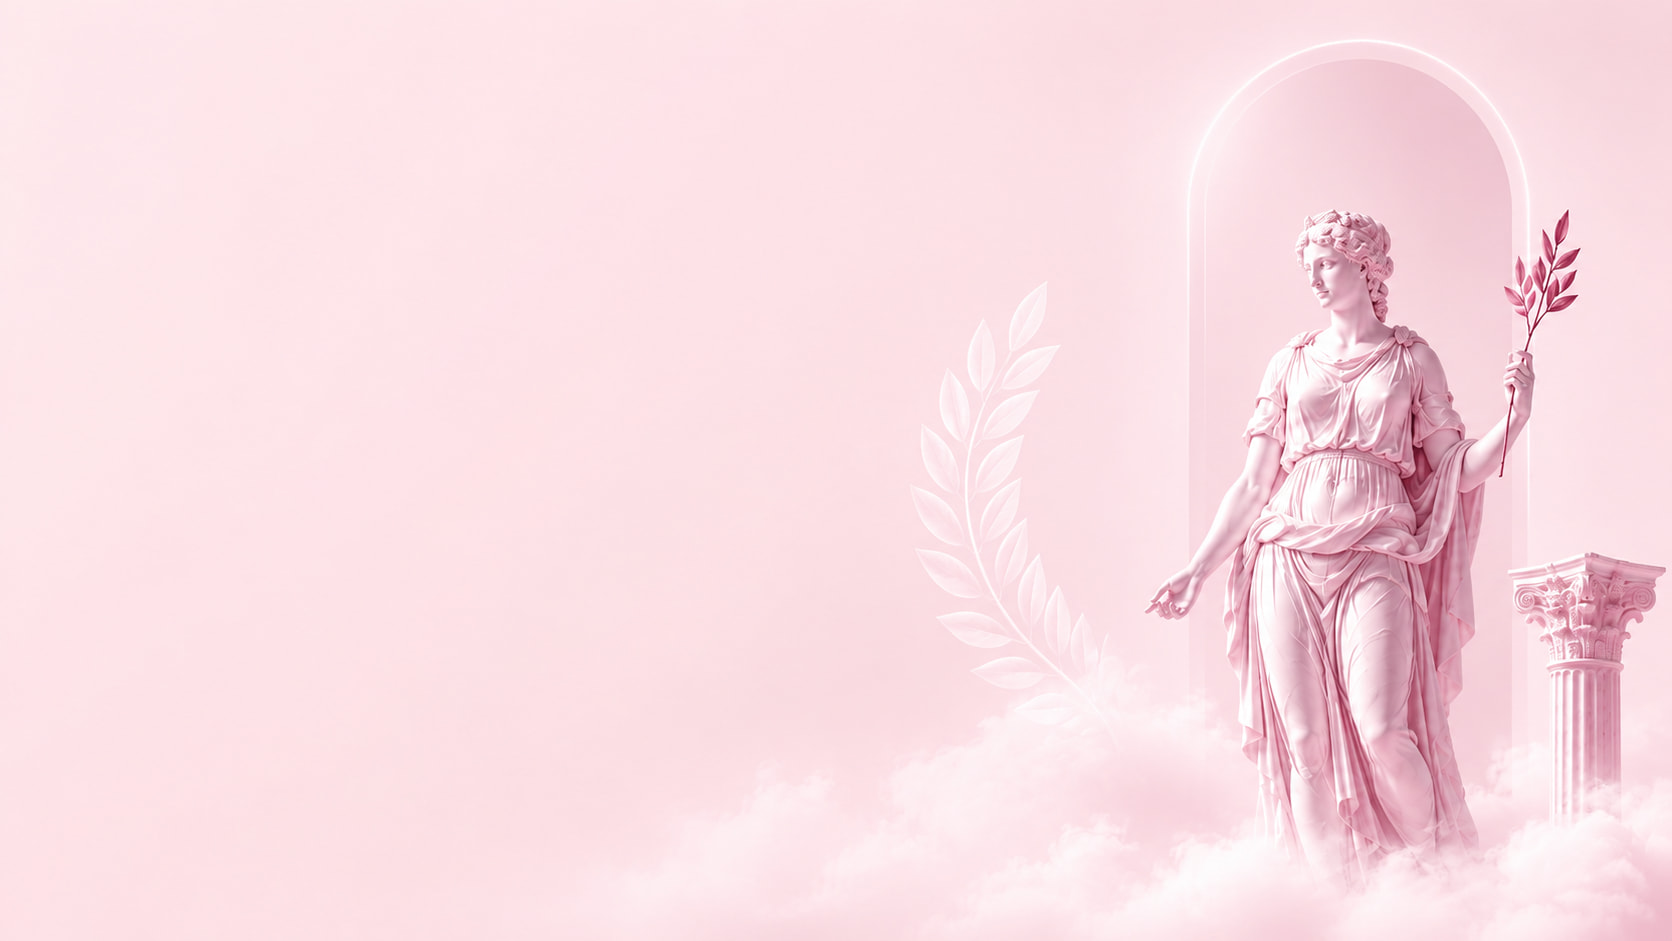
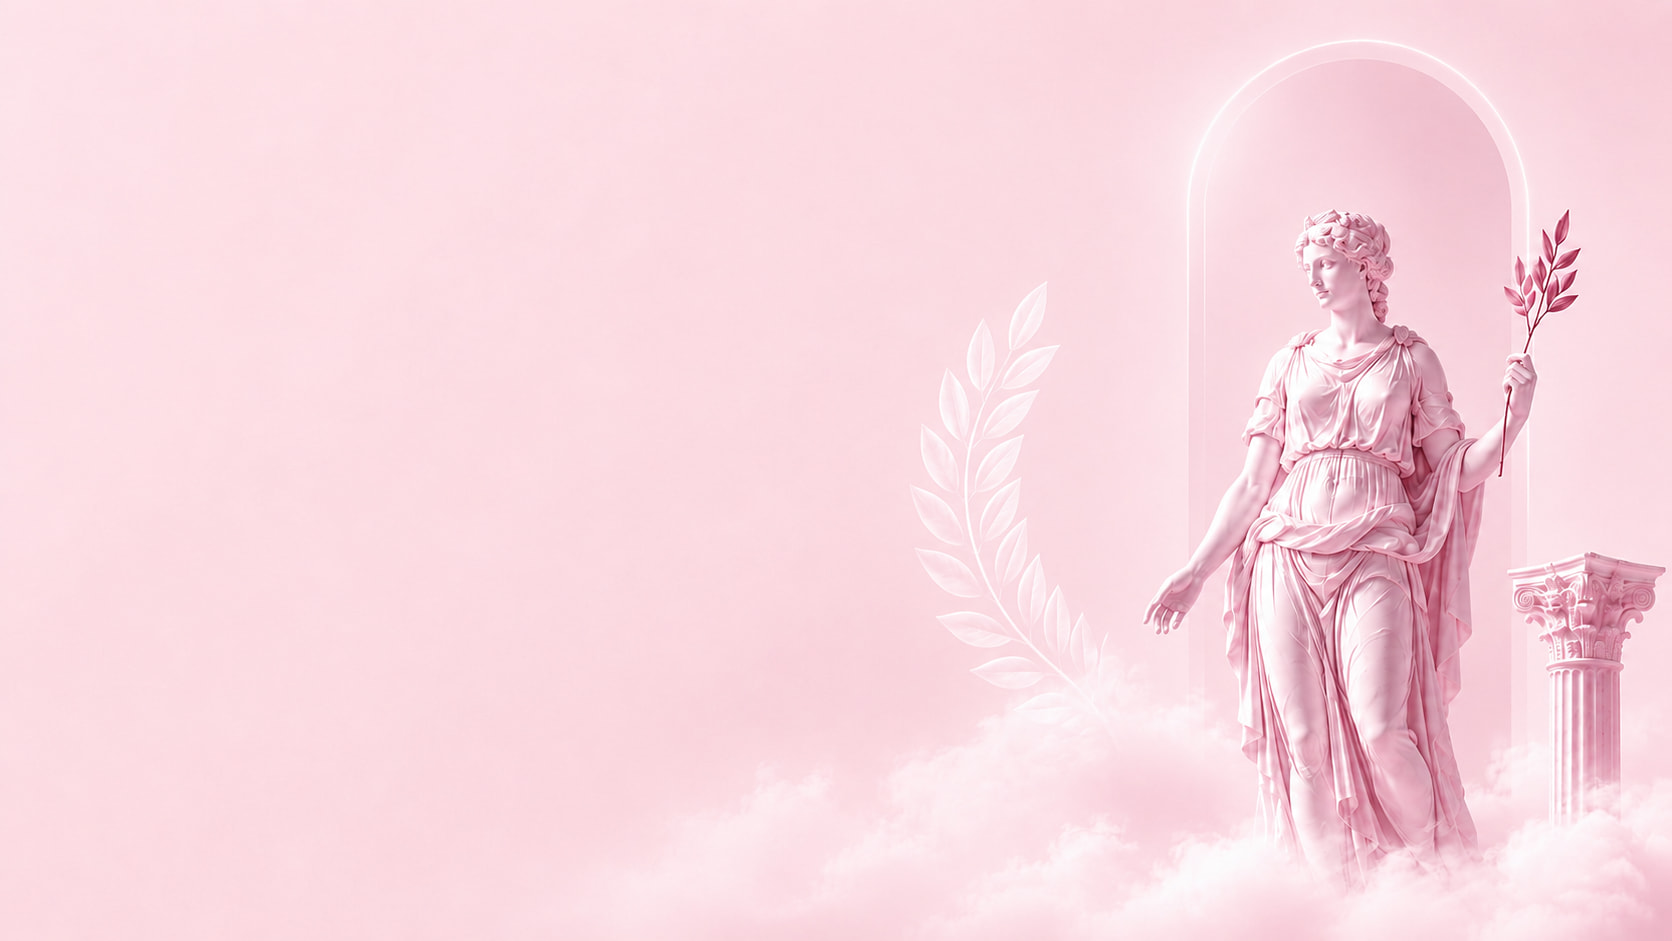
Site web

diff --git a/app/globals.css b/app/globals.css
@@ -3841,9 +3841,16 @@ body:has(.home-with-cinematic-footer) {
   overflow: hidden;
   /* Pas de min-height : la banniere fait la hauteur naturelle
      de l'image (ratio ~3:1, donc ~33% de la largeur viewport).
-     Pas de margin-bottom : colle au footer. */
-  margin-bottom: -1px;
+     marginBottom: -2px (au lieu de -1) pour fermer tout risque de bande
+     visible due aux arrondis pixel des aspect-ratio. */
+  margin-bottom: -2px;
   background-color: var(--cream);
+  /* Block display obligatoire pour eviter tout interlining */
+  display: block;
+}
+.reali-cta-banner + footer,
+.reali-cta-banner + .site-footer {
+  margin-top: 0 !important;
 }
 .reali-cta-banner-bg {
   position: absolute;
@@ -3935,14 +3942,12 @@ body:has(.home-with-cinematic-footer) {
   isolation: isolate;
   overflow: hidden;
   background: var(--cream);
-  /* Pas de min-height 90vh qui pousse le contenu trop bas : on laisse
-     le contenu definir la hauteur naturelle avec un padding controle. */
   min-height: 0;
 }
 .methode-hero-bg {
   position: absolute;
-  /* Image remonte : top 90px au lieu de 110px (calage juste sous le header). */
-  top: 90px;
+  /* Image collee juste sous le header (qui fait ~90-100px) */
+  top: 60px;
   left: 0; right: 0; bottom: 0;
   background-image: url('/method-fond.jpg');
   background-size: cover;
@@ -3953,14 +3958,14 @@ body:has(.home-with-cinematic-footer) {
   -webkit-mask-image: linear-gradient(
     to bottom,
     transparent 0%,
-    rgba(0,0,0,1) 40px,
+    rgba(0,0,0,1) 30px,
     rgba(0,0,0,1) calc(100% - 100px),
     transparent 100%
   );
           mask-image: linear-gradient(
     to bottom,
     transparent 0%,
-    rgba(0,0,0,1) 40px,
+    rgba(0,0,0,1) 30px,
     rgba(0,0,0,1) calc(100% - 100px),
     transparent 100%
   );
@@ -3968,11 +3973,11 @@ body:has(.home-with-cinematic-footer) {
 .methode-hero-inner {
   position: relative;
   z-index: 1;
-  /* Padding-top reduit : 120px -> 130px (header de 100px + 30px d'air).
-     Padding-bottom reduit aussi pour eviter le trou en bas du screen. */
+  /* Padding-top reduit au MAX : 130px -> 95px.
+     Le header fixe occupe ~90px, donc 95px = juste 5px d'air sous le header. */
   display: flex;
   align-items: flex-start;
-  padding: 130px 5vw 70px 5vw;
+  padding: 95px 5vw 50px 5vw;
 }
 .methode-hero-content {
   /* Texte cale a gauche : on prend 55% max et on s'aligne a gauche */
@@ -4276,96 +4281,58 @@ body:has(.home-with-cinematic-footer) {
 .bullet-pink { background: var(--pink); }
 .bullet-pink-deep { background: var(--pink-deep); }
 
-/* SECTION "Ce qu'on ne fera JAMAIS" */
-.methode-nevers {
-  background: linear-gradient(135deg, var(--night) 0%, var(--klein-deep) 100%);
-  color: #fff;
-  padding: 120px 0;
+/* ===========================================================
+   BANNIERE IMAGE — remplace l'ancienne section "Ce qu'on ne fera jamais"
+   Dimensions identiques (1920 x ~820px en Full HD).
+   Pas de texte HTML : tout le texte est integre dans l'image. */
+.methode-banner {
   position: relative;
+  isolation: isolate;
   overflow: hidden;
+  width: 100%;
+  /* Hauteur : meme proportion que l'ancienne .methode-nevers (~820px sur 1920),
+     soit ratio image native 1919x820 -> aspect-ratio 1919/820. */
+  aspect-ratio: 1919 / 820;
+  background-color: #0D0D1A;
 }
-.methode-nevers::before {
+.methode-banner-bg {
+  position: absolute;
+  inset: 0;
+  background-image: url('/methode-banner.jpg');
+  background-size: cover;
+  background-position: center;
+  background-repeat: no-repeat;
+  z-index: 0;
+}
+@media (max-width: 700px) {
+  .methode-banner { aspect-ratio: auto; min-height: 320px; }
+}
+
+/* CTA final — fond image "Tout commence par un échange" collé au footer */
+.methode-cta {
+  position: relative;
+  isolation: isolate;
+  overflow: hidden;
+  padding: 120px 0;
+  /* Colle au footer : aucun ecart visible */
+  margin-bottom: -1px;
+  background-color: var(--cream);
+}
+.methode-cta::before {
   content: '';
   position: absolute;
   inset: 0;
-  background:
-    radial-gradient(ellipse at 15% 20%, rgba(43, 108, 196, 0.18) 0%, transparent 50%),
-    radial-gradient(ellipse at 85% 80%, rgba(201, 38, 106, 0.14) 0%, transparent 50%);
-  pointer-events: none;
-}
-.methode-nevers .container { position: relative; z-index: 1; }
-.methode-nevers-head {
-  text-align: center;
-  margin-bottom: 64px;
-  max-width: 760px;
-  margin-left: auto;
-  margin-right: auto;
-}
-.methode-nevers-eyebrow {
-  color: rgba(255, 255, 255, 0.6) !important;
-}
-.methode-nevers-title {
-  font-family: var(--serif);
-  font-size: clamp(40px, 5vw, 64px);
-  line-height: 1.06;
-  letter-spacing: -0.022em;
-  font-weight: 400;
-  margin: 18px 0 0;
-  color: #fff;
-}
-.methode-nevers-grid {
-  display: grid;
-  grid-template-columns: repeat(2, 1fr);
-  gap: 20px;
-  max-width: 1100px;
-  margin: 0 auto;
-}
-@media (max-width: 800px) { .methode-nevers-grid { grid-template-columns: 1fr; } }
-.methode-never-card {
-  padding: 32px 30px;
-  background: rgba(255, 255, 255, 0.05);
-  border: 1px solid rgba(255, 255, 255, 0.10);
-  border-radius: 16px;
-  position: relative;
-  transition: border-color 0.3s var(--ease), transform 0.3s var(--ease);
-}
-.methode-never-card:hover {
-  border-color: rgba(201, 38, 106, 0.45);
-  transform: translateY(-4px);
-}
-.methode-never-num {
-  font-family: var(--serif);
-  font-style: italic;
-  font-size: 36px;
-  line-height: 1;
-  color: var(--pink);
-  margin-bottom: 14px;
-  opacity: 0.85;
-}
-.methode-never-title {
-  font-family: var(--serif);
-  font-size: 19px;
-  font-weight: 500;
-  margin: 0 0 12px;
-  letter-spacing: -0.008em;
-  color: #fff;
-}
-.methode-never-desc {
-  font-size: 14px;
-  line-height: 1.7;
-  color: rgba(255, 255, 255, 0.78);
-  margin: 0;
-}
-
-/* CTA final */
-.methode-cta {
-  background: var(--cream);
-  padding: 120px 0;
-  position: relative;
+  background-image: url('/methode-cta-bg.jpg');
+  background-size: cover;
+  background-position: center;
+  background-repeat: no-repeat;
+  z-index: -1;
 }
 .methode-cta-inner {
   text-align: center;
   max-width: 760px;
+  position: relative;
+  z-index: 1;
 }
 .methode-cta-eyebrow {
   display: inline-block;
@@ -4417,20 +4384,22 @@ body:has(.home-with-cinematic-footer) {
 }
 
 /* ===========================================================
-   TRANSITION HERO METHODE -> ETAPE 01
-   Le hero a un fond #EAE9EE et l'etape 1 a une image de fond
-   qui demarre brusquement. On ajoute un fondu en haut de la
-   premiere FlowSection pour faire la transition douce. */
-[data-flow-section]:first-child {
+   TRANSITION methode-intro -> ETAPE 01
+   La section "Chaque étape a un objectif" (.methode-intro) a un fond cream,
+   l'etape 1 a une image lavande pale. On fond la fin de l'intro vers
+   transparent pour creer une transition douce vers l'image. */
+.methode-intro {
   position: relative;
 }
-[data-flow-section]:first-child::before {
+.methode-intro::after {
   content: '';
   position: absolute;
-  top: 0;
+  bottom: 0;
   left: 0; right: 0;
   height: 140px;
-  background: linear-gradient(to bottom, var(--cream) 0%, rgba(234,233,238,0) 100%);
-  z-index: 5;
+  background: linear-gradient(to bottom, transparent 0%, var(--cream) 100%);
   pointer-events: none;
+  /* Le fade descend vers le cream pour que la fin de l'intro se fond
+     visuellement avec ce qui suit (FlowArt). */
+  opacity: 0.5;
 }

diff --git a/app/methode/page.tsx b/app/methode/page.tsx
@@ -8,25 +8,6 @@ export const metadata = {
     "Notre méthode en 4 étapes : cadrage, design, développement, livraison. Transparente, jalonnée, sans zone d'ombre.",
 };
 
-const NEVERS = [
-  {
-    title: "Vous facturer un changement qu'on aurait dû anticiper",
-    desc: "Si on a mal cadré, c'est sur nous. Vous ne payez jamais notre approximation initiale.",
-  },
-  {
-    title: 'Sous-traiter sans vous le dire',
-    desc: "Tout est fait par nous, à Nantes. Si jamais on devait s'appuyer sur un partenaire, vous le saurez avant.",
-  },
-  {
-    title: 'Vous prendre en otage à la fin',
-    desc: "Le code, les accès, le nom de domaine — tout vous appartient. Si vous voulez changer d'agence demain, vous pouvez.",
-  },
-  {
-    title: "Accepter un projet qu'on ne saurait pas faire",
-    desc: 'Si votre besoin dépasse nos compétences, on vous le dit franchement et on vous oriente vers la bonne personne.',
-  },
-];
-
 export default function MethodePage() {
   return (
     <>
@@ -266,26 +247,10 @@ export default function MethodePage() {
 
       <DynamicIslandTOC selector="article h2" accentColor="var(--pink)" />
 
-      {/* CE QU'ON NE FAIT PAS — section sombre, dense */}
-      <section className="methode-nevers">
-        <div className="container">
-          <div className="methode-nevers-head">
-            <span className="eyebrow methode-nevers-eyebrow">Et aussi</span>
-            <h2 className="methode-nevers-title">
-              Ce qu'on ne fera<br />
-              <span className="italic methode-italic-pink">jamais.</span>
-            </h2>
-          </div>
-          <div className="methode-nevers-grid">
-            {NEVERS.map((n, i) => (
-              <div key={i} className="methode-never-card">
-                <div className="methode-never-num">{String(i + 1).padStart(2, '0')}</div>
-                <h4 className="methode-never-title">{n.title}</h4>
-                <p className="methode-never-desc">{n.desc}</p>
-              </div>
-            ))}
-          </div>
-        </div>
+      {/* BANNIERE IMAGE PURE : remplace l'ancienne section "Ce qu'on ne fera jamais".
+          L'image contient deja son propre texte/icones integres, on n'ajoute rien par-dessus. */}
+      <section className="methode-banner" aria-label="Comprendre avant d'agir">
+        <div className="methode-banner-bg" aria-hidden="true" />
       </section>
 
       {/* CTA — Demarrer un projet */}
